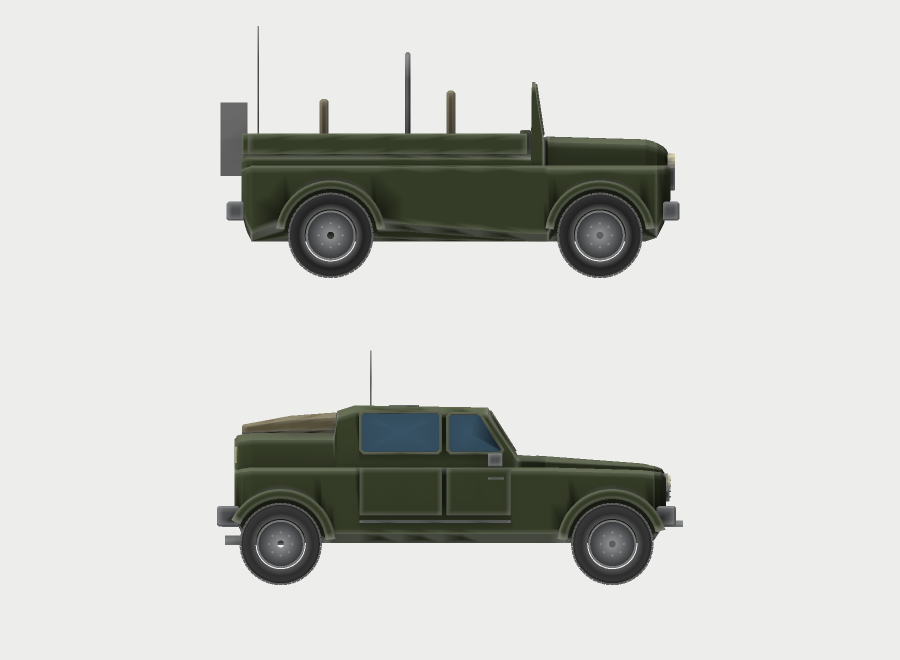
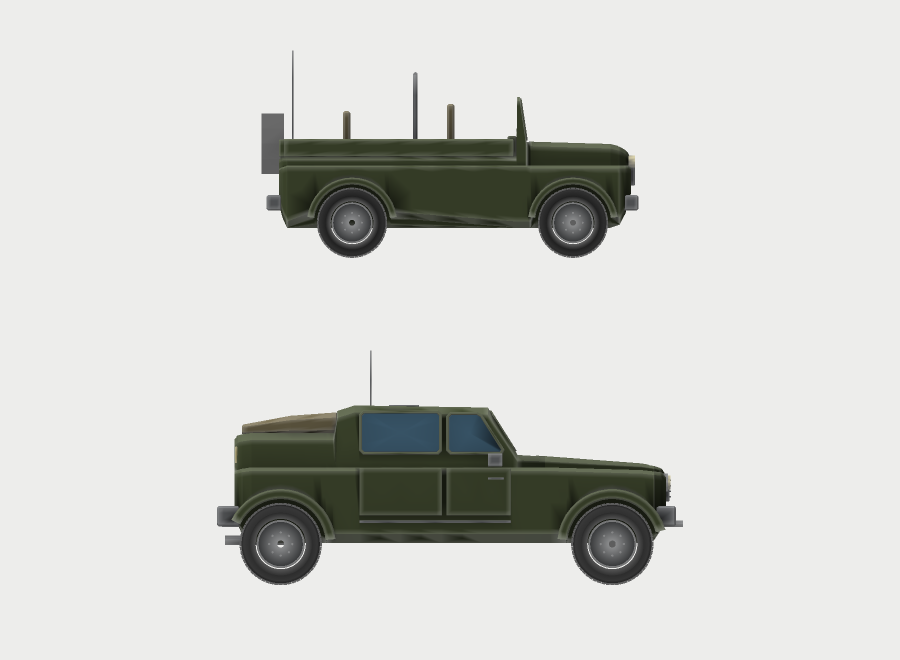
geometry: stacked pictures share one scale (a lineup must compare sizes honestly)
The scout-and-utility side picture of the previous commit framed each tile on its own vehicle, so
the 3.7 m scout and the 4.6 m utility truck came out the same length. Stacked subjects now share the
scale of the largest, and the picture is regenerated.

Claude-Session: https://claude.ai/code/session_01Wrh5HHcDHQFnFuNE1iqJNv

Changed region(s): [[0.2178, 0.0909, 0.7778, 0.4242]]

diff --git a/crates/w5k_tools/src/cmd/geometry.rs b/crates/w5k_tools/src/cmd/geometry.rs
@@ -48,8 +48,11 @@ pub fn run(args: &[String]) -> Result<(), String> {
             let cols = if views.len() == 1 { 1 } else { 2 };
             let (pw, ph) = (cols * w, subjects.len() * views.len().div_ceil(cols) * h);
             let mut pixels = Vec::new();
-            for name in &subjects {
-                pixels.extend(sheet(&subject(name, detail)?, mode, &views, w, h)?);
+            let all = subjects.iter().map(|name| subject(name, detail)).collect::<Result<Vec<_>, _>>()?;
+            // one scale for every tile, the largest vehicle's, so that sizes can be compared
+            let min_ext = all.iter().map(|p| extent(p)).fold(0.0, f64::max);
+            for parts in &all {
+                pixels.extend(sheet(parts, mode, &views, w, h, min_ext)?);
             }
             write_png(&path, pw as u32, ph as u32, &pixels)?;
             println!("wrote {path}");
@@ -178,8 +181,25 @@ const VIEWS: [(&str, [f64; 3], bool); 9] = [
     ("gun", [0.8, 0.45, -1.0], true),     // const-ok: camera direction
 ];
 
+/// The diagonal of the box around the parts that count for the camera framing.
+fn extent(parts: &[(Mesh, [f64; 3], bool)]) -> f64 {
+    let (lo, hi) = parts
+        .iter()
+        .filter(|p| p.2)
+        .map(|p| p.0.bounds())
+        .fold((Vec3::splat(f64::MAX), Vec3::splat(f64::MIN)), |(a, b), (l, u)| (a.min(l), b.max(u)));
+    (hi - lo).length()
+}
+
 /// One picture per name in `views`: a single view fills the image, four views make a 2 x 2 sheet.
-fn sheet(parts: &[(Mesh, [f64; 3], bool)], mode: Mode, views: &[&str], w: usize, h: usize) -> Result<Vec<u8>, String> {
+fn sheet(
+    parts: &[(Mesh, [f64; 3], bool)],
+    mode: Mode,
+    views: &[&str],
+    w: usize,
+    h: usize,
+    min_ext: f64,
+) -> Result<Vec<u8>, String> {
     let flags = bake(&parts.iter().map(|p| &p.0).collect::<Vec<_>>(), &FlagParams::default_params());
     let items: Vec<Item> = parts
         .iter()
@@ -191,7 +211,7 @@ fn sheet(parts: &[(Mesh, [f64; 3], bool)], mode: Mode, views: &[&str], w: usize,
         .filter(|p| p.2)
         .map(|p| p.0.bounds())
         .fold((Vec3::splat(f64::MAX), Vec3::splat(f64::MIN)), |(a, b), (l, u)| (a.min(l), b.max(u)));
-    let (c, ext) = ((lo + hi) * 0.5, (hi - lo).length());
+    let (c, ext) = ((lo + hi) * 0.5, (hi - lo).length().max(min_ext));
     let cols = if views.len() == 1 { 1 } else { 2 };
     let mut out = vec![0u8; cols * w * views.len().div_ceil(cols) * h * 3];
     for (i, name) in views.iter().enumerate() {

diff --git a/docs/lanes/geometry/README.md b/docs/lanes/geometry/README.md
@@ -5,7 +5,7 @@ Run on your PC (`docs/dev-environment.md`): `cargo run --release -p w5k_tools --
 | Command | What it does |
 |---|---|
 | `geometry sheet wheel --out DIR` | contact sheet (three-quarter, side, front, top) of the parametric wheel |
-| `geometry sheet <wheel\|truck\|scout\|hull\|truck6\|truck-ring>[,more...] --out DIR [--mode look\|shaded\|edge\|cavity] [--detail 0\|1\|2] [--view front34,rear34,side,front,rear,top,low34,close,gun] [--size WxH]` | the same for the utility 4x4 (`hull`: the hull module alone, no wheels; `truck6`: the same hull on three axles; `truck-ring`: the truck with the ring mount on its roof; a comma-separated list stacks the subjects one above the other); `edge` and `cavity` show the baked per-vertex flags in false colour (blue 0, green 0.5, red 1); one `--view` gives a full-size single picture, several make a 2 x 2 sheet |
+| `geometry sheet <wheel\|truck\|scout\|hull\|truck6\|truck-ring>[,more...] --out DIR [--mode look\|shaded\|edge\|cavity] [--detail 0\|1\|2] [--view front34,rear34,side,front,rear,top,low34,close,gun] [--size WxH]` | the same for the utility 4x4 (`hull`: the hull module alone, no wheels; `truck6`: the same hull on three axles; `truck-ring`: the truck with the ring mount on its roof; a comma-separated list stacks the subjects one above the other); `edge` and `cavity` show the baked per-vertex flags in false colour (blue 0, green 0.5, red 1); one `--view` gives a full-size single picture, several make a 2 x 2 sheet; stacked subjects share one scale (the largest vehicle's) |
 | `geometry export <truck\|scout> --out DIR [--detail 0\|1\|2]` | `<id>.renderrig.json` (`truck` is `utility_4x4`, `scout` is `scout_4x4`) (a `RenderRig` in the stand-in node layout of `testing::box_truck()`, with `edge` and `cavity` baked), `utility_4x4.glb` (open it in Blender: `COLOR_0` = edge, cavity, 0) and `<id>.dimensions.md` |
 
 Pictures in `media/`: `truck-look.png` (four-view sheet with the flags applied the way LOOK will), `truck-front34-look.png`, `truck-side-look.png`, `truck-rear34-look.png`, `truck-close-look.png` (the greenhouse; full size), `truck-edge.png` (the `edge` flag), `modules-propulsion-side.png` and `modules-propulsion-front34.png` (hull module alone, 4x4, 6x6: the same hull family with different running gear), `modules-mount-close.png` and `modules-mount-front34.png` (the ring mount on the roof socket, cradle empty; `--view gun` is the close-up of the roof), `skin-scout.png` (the scout, four views) and `skin-scout-vs-utility-side.png` (scout and utility truck side by side at one scale), `wheel-look.png`, `s-g.png` (spike S-G plot), `utility_4x4.dimensions.md` (the dimension table, PLACEHOLDER until the dossier lands).
